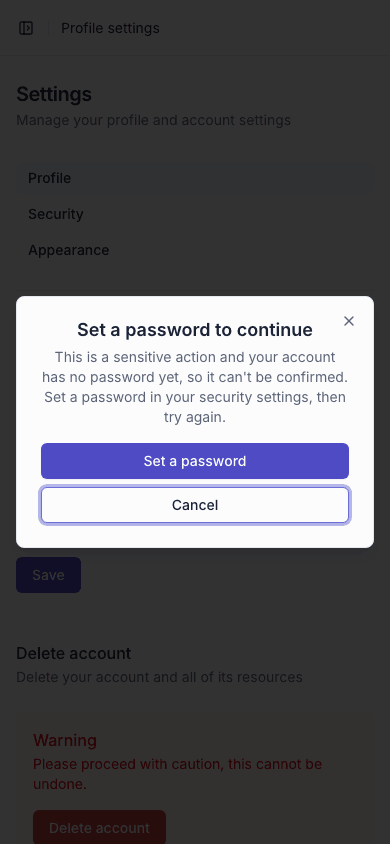
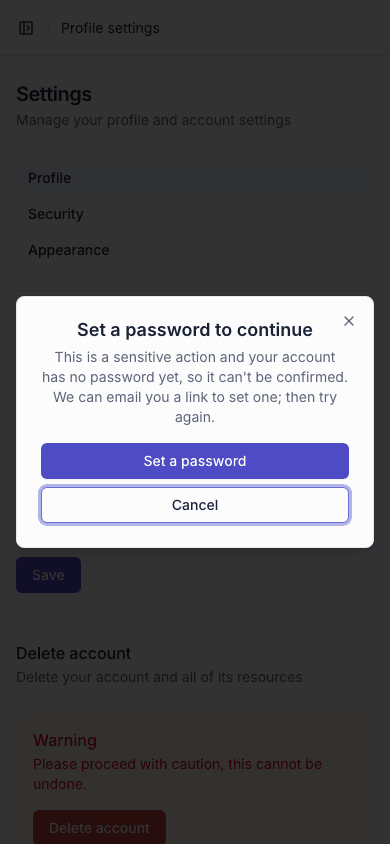
feat(auth): email a set-password link to a passwordless login; refuse a staff login without a password (#274)

Changed region(s): [[0.1231, 0.4621, 0.8923, 0.5237]]

diff --git a/billing/resources/js/components/app/password-confirmation-gate.tsx b/billing/resources/js/components/app/password-confirmation-gate.tsx
@@ -1,4 +1,4 @@
-import { Link, router, usePage } from '@inertiajs/react';
+import { router, usePage } from '@inertiajs/react';
 import type { FormEvent } from 'react';
 import { useEffect, useRef, useState } from 'react';
 import ConfirmablePasswordController from '@/actions/Laravel/Fortify/Http/Controllers/ConfirmablePasswordController';
@@ -15,7 +15,10 @@ import {
 } from '@/components/ui/dialog';
 import { Label } from '@/components/ui/label';
 import { Spinner } from '@/components/ui/spinner';
-import { edit as securityEdit } from '@/routes/security';
+import {
+    SetPasswordButton,
+    xsrfToken,
+} from '@/components/app/set-password-button';
 import { STEP_UP_DOWNLOAD_EVENT } from '@/components/app/step-up-download-link';
 import type { HttpMethod } from '@/types/app';
 
@@ -28,12 +31,6 @@ type PendingVisit = {
     /** The login has no password: offer "Set a password" instead of the password field. */
     noPassword?: boolean;
 };
-
-function xsrfToken(): string {
-    const match = document.cookie.match(/(?:^|; )XSRF-TOKEN=([^;]*)/);
-
-    return match ? decodeURIComponent(match[1]) : '';
-}
 
 /**
  * Step-up authentication for sensitive actions. When the server answers a visit with a
@@ -177,9 +174,8 @@ export function PasswordConfirmationGate() {
                             </DialogTitle>
                             <DialogDescription>
                                 This is a sensitive action and your account has
-                                no password yet, so it can't be confirmed. Set a
-                                password in your security settings, then try
-                                again.
+                                no password yet, so it can't be confirmed. We
+                                can email you a link to set one; then try again.
                             </DialogDescription>
                         </DialogHeader>
                         <DialogFooter>
@@ -190,15 +186,7 @@ export function PasswordConfirmationGate() {
                             >
                                 Cancel
                             </Button>
-                            <Button asChild>
-                                <Link
-                                    href={securityEdit().url}
-                                    onClick={() => setPending(null)}
-                                    data-test="step-up-set-password"
-                                >
-                                    Set a password
-                                </Link>
-                            </Button>
+                            <SetPasswordButton />
                         </DialogFooter>
                     </div>
                 ) : (

diff --git a/billing/resources/js/components/app/set-password-button.tsx b/billing/resources/js/components/app/set-password-button.tsx
@@ -1,0 +1,73 @@
+import { useState } from 'react';
+import { Button } from '@/components/ui/button';
+import { Spinner } from '@/components/ui/spinner';
+import { setLink } from '@/routes/password';
+
+export function xsrfToken(): string {
+    const match = document.cookie.match(/(?:^|; )XSRF-TOKEN=([^;]*)/);
+
+    return match ? decodeURIComponent(match[1]) : '';
+}
+
+/**
+ * For a login without a password: asks the server to email a link to set one. The reset page is for guests only, so
+ * the text says to open the link in a private window.
+ */
+export function SetPasswordButton({ className }: { className?: string }) {
+    const [state, setState] = useState<'idle' | 'sending' | 'sent' | 'failed'>(
+        'idle',
+    );
+
+    const send = async () => {
+        setState('sending');
+
+        try {
+            const response = await fetch(setLink.url(), {
+                method: 'POST',
+                credentials: 'same-origin',
+                headers: {
+                    Accept: 'application/json',
+                    'X-Requested-With': 'XMLHttpRequest',
+                    'X-XSRF-TOKEN': xsrfToken(),
+                },
+            });
+
+            setState(response.ok ? 'sent' : 'failed');
+        } catch {
+            setState('failed');
+        }
+    };
+
+    if (state === 'sent') {
+        return (
+            <p
+                role="status"
+                className="text-sm text-muted-foreground"
+                data-test="set-password-sent"
+            >
+                Check your email. The link lets you choose a password; open it
+                in a private window if you stay signed in here.
+            </p>
+        );
+    }
+
+    return (
+        <div className="grid gap-2">
+            <Button
+                type="button"
+                className={className}
+                onClick={send}
+                disabled={state === 'sending'}
+                data-test="set-password-button"
+            >
+                {state === 'sending' && <Spinner />}
+                Set a password
+            </Button>
+            {state === 'failed' && (
+                <p role="alert" className="text-sm text-destructive">
+                    Could not send the email. Try again in a moment.
+                </p>
+            )}
+        </div>
+    );
+}

diff --git a/billing/resources/js/pages/auth/confirm-password.tsx b/billing/resources/js/pages/auth/confirm-password.tsx
@@ -1,12 +1,12 @@
-import { Form, Link, setLayoutProps } from '@inertiajs/react';
+import { Form, setLayoutProps } from '@inertiajs/react';
 import { Head } from '@/components/app/head';
+import { SetPasswordButton } from '@/components/app/set-password-button';
 import InputError from '@/components/input-error';
 import PasswordInput from '@/components/password-input';
 import { Button } from '@/components/ui/button';
 import { Label } from '@/components/ui/label';
 import { Spinner } from '@/components/ui/spinner';
 import { store } from '@/routes/password/confirm';
-import { edit as securityEdit } from '@/routes/security';
 import {
     index as confirmOptions,
     store as confirmStore,
@@ -24,21 +24,14 @@ export default function ConfirmPassword({
         setLayoutProps({
             title: 'Set a password to continue',
             description:
-                "This action needs a password, and your account doesn't have one yet. Set one in your security settings, then come back.",
+                "This action needs a password, and your account doesn't have one yet. We can email you a link to set one; then come back.",
         });
 
         return (
             <>
                 <Head title="Set a password" />
 
-                <Button asChild className="w-full">
-                    <Link
-                        href={securityEdit().url}
-                        data-test="confirm-set-password"
-                    >
-                        Set a password
-                    </Link>
-                </Button>
+                <SetPasswordButton className="w-full" />
             </>
         );
     }

diff --git a/billing/tests/Feature/Security/PasswordlessStepUpTest.php b/billing/tests/Feature/Security/PasswordlessStepUpTest.php
@@ -2,13 +2,17 @@
 
 use App\Http\Middleware\RequireRecentPasswordConfirmation;
 use App\Models\User;
+use Illuminate\Auth\Notifications\ResetPassword;
 use Illuminate\Support\Facades\DB;
+use Illuminate\Support\Facades\Notification;
+use Illuminate\Support\Facades\RateLimiter;
 use Illuminate\Support\Facades\Route;
 use Inertia\Testing\AssertableInertia as Assert;
 
 /**
  * ADR 0018 §4: a login without a password never passes step-up and is told to set one. The staff factory always
- * sets a password, so the null is written with the query builder (the saving hook is not involved).
+ * sets a password and the User saving hook refuses a staff login with a null one (ADR 0018 §5), so the null is
+ * written with the query builder, which bypasses the hook: this models a login that reached that state anyway.
  */
 beforeEach(function () {
     Route::middleware(['web', 'auth', 'password.recent'])->group(function () {
@@ -87,4 +91,59 @@ it('leaves a login with a password unchanged', function () {
         ->post('/_step-up-probe')->assertOk();
     $this->actingAs($user)->get(route('password.confirm'))
         ->assertInertia(fn (Assert $page) => $page->where('hasPassword', true)->where('auth.user.has_password', true));
+});
+
+it('lets only a login without a password ask for the set-password link, and says only "sent"', function () {
+    Notification::fake();
+    $user = passwordlessStaff();
+
+    $this->actingAs($user)->postJson(route('password.set-link'))->assertOk()->assertExactJson(['status' => 'sent']);
+    Notification::assertSentTo($user, ResetPassword::class);
+
+    $withPassword = User::factory()->staff(['*'])->create();
+    $this->actingAs($withPassword)->postJson(route('password.set-link'))->assertForbidden();
+    Notification::assertNotSentTo($withPassword, ResetPassword::class);
+
+    auth()->logout();
+    $this->postJson(route('password.set-link'))->assertUnauthorized();
+});
+
+it('throttles the set-password link', function () {
+    Notification::fake();
+    RateLimiter::clear('set-link-user|1');
+    $user = passwordlessStaff();
+
+    foreach (range(1, 5) as $ignored) {
+        $this->actingAs($user)->postJson(route('password.set-link'))->assertOk();
+    }
+
+    $this->actingAs($user)->postJson(route('password.set-link'))->assertStatus(429);
+});
+
+it('lets the emailed link set a password, after which step-up works with it', function () {
+    Notification::fake();
+    $user = passwordlessStaff();
+    $this->actingAs($user)->postJson(route('password.set-link'))->assertOk();
+
+    $token = null;
+    Notification::assertSentTo($user, ResetPassword::class, function (ResetPassword $notification) use (&$token): bool {
+        $token = $notification->token;
+
+        return true;
+    });
+
+    auth()->logout();
+    $this->flushSession();
+    $this->post(route('password.update'), [
+        'token' => $token,
+        'email' => $user->email,
+        'password' => 'a-Strong-pass-123!',
+        'password_confirmation' => 'a-Strong-pass-123!',
+    ])->assertRedirect();
+
+    expect($user->refresh()->hasPassword())->toBeTrue();
+
+    $this->actingAs($user)->postJson('/_step-up-probe')->assertStatus(423)->assertJsonMissingPath('code');
+    $this->actingAs($user)->postJson(route('password.confirm.store'), ['password' => 'a-Strong-pass-123!'])->assertSuccessful();
+    $this->actingAs($user)->post('/_step-up-probe')->assertOk();
 });

diff --git a/billing/app/Http/Controllers/Settings/SetPasswordLinkController.php b/billing/app/Http/Controllers/Settings/SetPasswordLinkController.php
@@ -1,0 +1,35 @@
+<?php
+
+namespace App\Http\Controllers\Settings;
+
+use App\Http\Controllers\Controller;
+use Illuminate\Http\JsonResponse;
+use Illuminate\Http\RedirectResponse;
+use Illuminate\Http\Request;
+use Illuminate\Support\Facades\Password;
+use Inertia\Inertia;
+
+/**
+ * "Email me a link to set a password" for a login that has none (ADR 0018 §4). Sends the standard reset link to the
+ * account's own address. A login with a password gets 403; the answer never says more than "sent", also when the
+ * broker withholds a link because one was sent a moment ago.
+ */
+class SetPasswordLinkController extends Controller
+{
+    public function __invoke(Request $request): JsonResponse|RedirectResponse
+    {
+        $user = $request->user();
+
+        abort_if($user->hasPassword(), 403);
+
+        Password::broker(config('fortify.passwords'))->sendResetLink(['email' => $user->email]);
+
+        if ($request->expectsJson()) {
+            return response()->json(['status' => 'sent']);
+        }
+
+        Inertia::flash('toast', ['type' => 'success', 'message' => __('Check your email for a link to set a password.')]);
+
+        return back();
+    }
+}

diff --git a/billing/tests/Feature/Auth/StaffPasswordRuleTest.php b/billing/tests/Feature/Auth/StaffPasswordRuleTest.php
@@ -1,0 +1,24 @@
+<?php
+
+use App\Models\User;
+
+/** ADR 0018 §5: a staff login always has a password, so staff step-up is always possible. */
+it('refuses to save a staff login without a password', function () {
+    expect(fn () => User::factory()->staff(['*'])->create(['password' => null]))->toThrow(DomainException::class);
+});
+
+it('refuses to promote a passwordless client login to staff', function () {
+    $user = User::factory()->create(['password' => null]);
+
+    expect($user->hasPassword())->toBeFalse();
+    expect(fn () => $user->forceFill(['is_staff' => true])->save())->toThrow(DomainException::class);
+    expect($user->fresh()->is_staff)->toBeFalse();
+});
+
+it('allows a passwordless client login and a promotion once it has a password', function () {
+    $user = User::factory()->create(['password' => null]);
+
+    $user->forceFill(['is_staff' => true, 'password' => 'a-Strong-pass-123!'])->save();
+
+    expect($user->fresh()->is_staff)->toBeTrue();
+});

diff --git a/billing/routes/settings.php b/billing/routes/settings.php
@@ -2,6 +2,7 @@
 
 use App\Http\Controllers\Settings\ProfileController;
 use App\Http\Controllers\Settings\SecurityController;
+use App\Http\Controllers\Settings\SetPasswordLinkController;
 use Illuminate\Auth\Middleware\RequirePassword;
 use Illuminate\Support\Facades\Route;
 
@@ -22,6 +23,11 @@ Route::middleware(['auth', 'verified'])->group(function () {
     Route::put('settings/password', [SecurityController::class, 'update'])
         ->middleware('throttle:6,1')
         ->name('user-password.update');
+
+    // For a login without a password only (ADR 0018 §4): mails the standard reset link to the account's own address.
+    Route::post('settings/password/set-link', SetPasswordLinkController::class)
+        ->middleware('throttle:password-set-link')
+        ->name('password.set-link');
 
     Route::inertia('settings/appearance', 'settings/appearance')->name('appearance.edit');
 });

diff --git a/billing/app/Models/User.php b/billing/app/Models/User.php
@@ -69,6 +69,13 @@ class User extends Authenticatable implements MustVerifyEmail, PasskeyUser
     protected static function booted(): void
     {
         static::saving(function (self $user): void {
+            // ADR 0018 §5: staff step-up must always be possible. Only a save that creates the login or changes
+            // is_staff or the password is checked, so an unrelated save (sign-out cycles the remember token) of a
+            // row that is already in this state still works.
+            if ($user->is_staff && ! $user->hasPassword() && (! $user->exists || $user->isDirty(['is_staff', 'password']))) {
+                throw new \DomainException('A staff login must have a password.');
+            }
+
             if ($user->isDirty('password')) {
                 $user->password_changed_at = now();
                 $user->must_change_password = false;

diff --git a/billing/app/Providers/FortifyServiceProvider.php b/billing/app/Providers/FortifyServiceProvider.php
@@ -115,6 +115,12 @@ class FortifyServiceProvider extends ServiceProvider
             Limit::perHour(5)->by('email|'.$this->throttleEmail($request)),
         ]);
 
+        // POST settings/password/set-link: per login and per IP (the request has no email input to key on).
+        RateLimiter::for('password-set-link', fn (Request $request): array => [
+            Limit::perMinute(5)->by('set-link-ip|'.$request->ip()),
+            Limit::perHour(5)->by('set-link-user|'.$request->user()?->getAuthIdentifier()),
+        ]);
+
         // POST /register: per IP and per address. The limiter runs before validation, so a known and an unknown
         // address get the same answer (security review 2026-10-19, M2).
         RateLimiter::for('register', fn (Request $request): array => [

diff --git a/billing/changelog.md b/billing/changelog.md
@@ -12,8 +12,11 @@ The format follows [Keep a Changelog](https://keepachangelog.com/en/1.1.0/) and 
   login (for example from a social or magic-link sign-in) can never pass step-up, whatever the session holds, including
   a passkey confirmation. The 423 response carries `code: "password_not_set"` and the Inertia validation response
   carries `step_up_reason`; neither holds secret data. The confirm dialog and the confirm-password page show "Set a
-  password" (linking to Security settings) instead of a password field. Shared props carry `auth.user.has_password`.
-  Upgrade: migration `make_users_password_nullable` makes `users.password` nullable (on PostgreSQL it takes a short lock
+  password" instead of a password field; it posts to `POST settings/password/set-link`, which emails the standard
+  reset link to the account's own address (only for a login without a password; limited to 5 a minute per IP and 5 an
+  hour per login) and answers only "sent". Shared props carry `auth.user.has_password`.
+  A staff login can no longer be created or promoted without a password (ADR 0018 §5; an unrelated save of a
+  row already in that state still works). Upgrade: migration `make_users_password_nullable` makes `users.password` nullable (on PostgreSQL it takes a short lock
   on `users`); no behaviour changes for logins that have a password.
 
 ### Fixed
